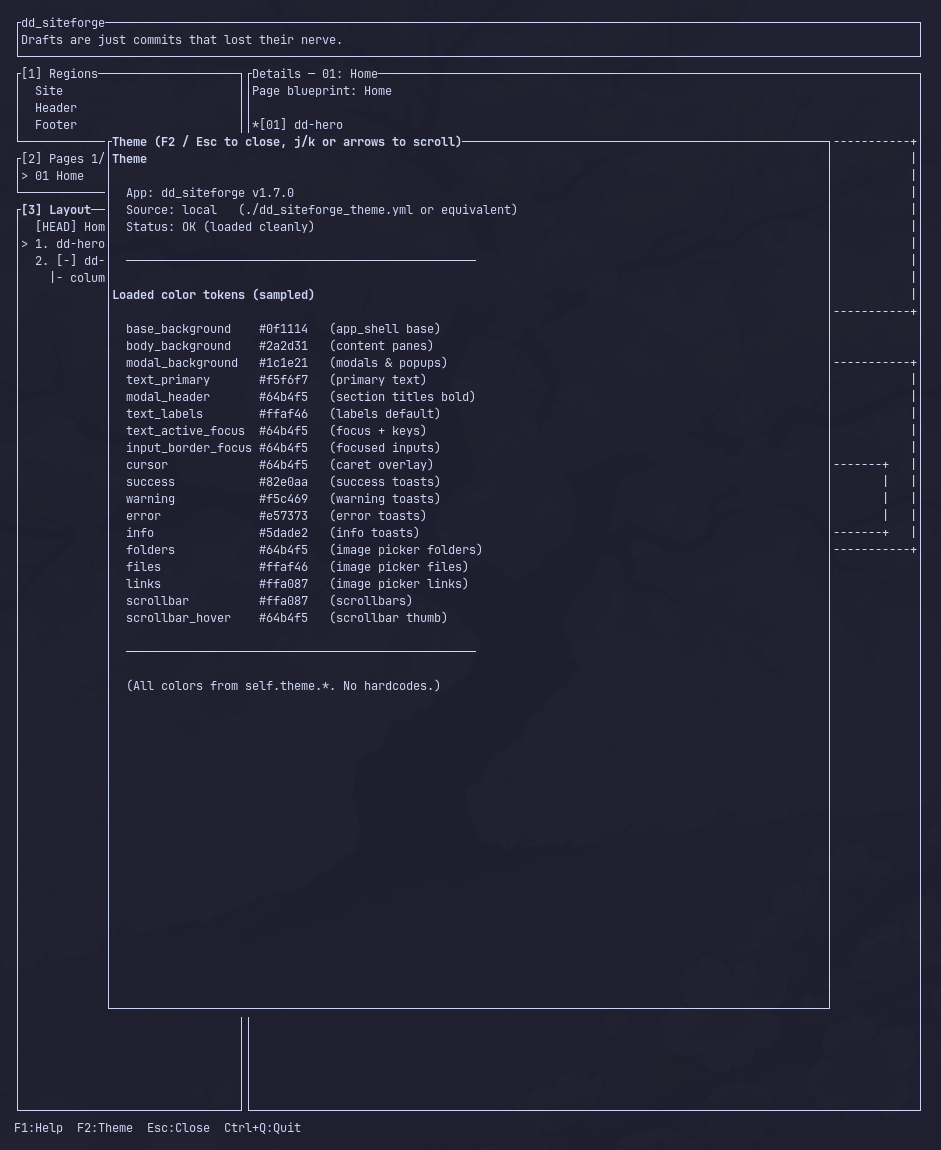
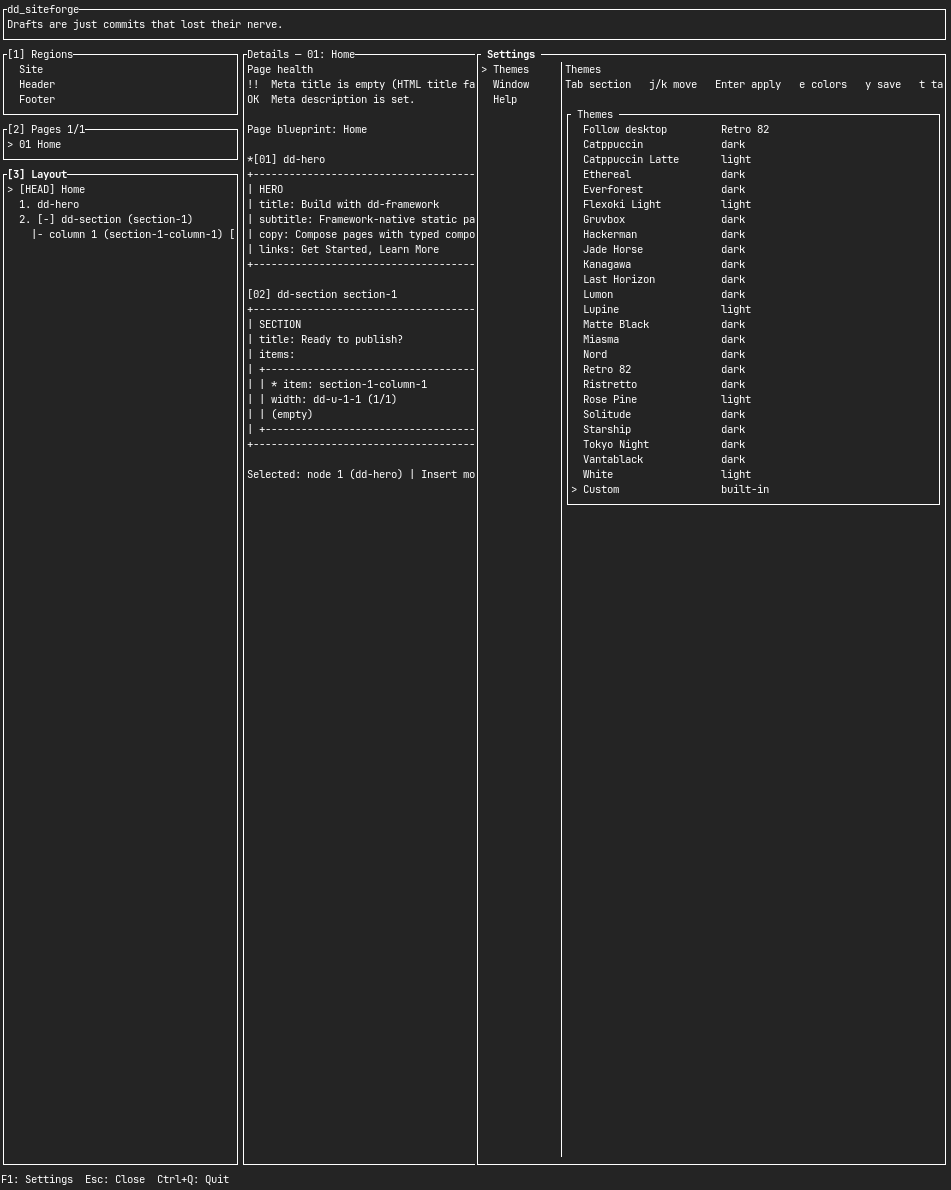
docs: update the tutorial for the Settings sheet
F1, F2, Ctrl+/, and Ctrl+, open one sheet. The page, capture script, and eight screenshots match that shell, including the theme path and font copy. capture.sh keeps its own XDG_CONFIG_HOME.

diff --git a/docs/index.html b/docs/index.html
@@ -141,7 +141,7 @@
 <body>
   <header class="hero">
     <div class="wrap">
-      <div class="kicker">dd_siteforge 1.11</div>
+      <div class="kicker">dd_siteforge 1.33.1</div>
       <h1>Setup, install, and the TUI</h1>
       <p>A terminal CMS for framework-native static pages. One Rust binary: edit a typed site tree, export HTML, host anywhere static.</p>
       <nav class="toc" aria-label="Sections">
@@ -185,20 +185,20 @@ dd_siteforge init-site site.json --name my-site</code></pre>
     <p>Without <code>--name</code> it prompts (or uses the folder name when stdin is not a TTY). Put author images in <code>source/images/</code> (URLs in the TUI look like <code>assets/images/hero.jpg</code>).</p>
 
     <h3>CSS / JS</h3>
-    <p>When the site has <code>.lando.yml</code>, the TUI <kbd>Shift+B</kbd> runs <code>lando grunt build</code> (Lando owns Node). Otherwise it runs <code>npx grunt build</code>. Host Node still works from a shell.</p>
+    <p>When the site has <code>.lando.yml</code>, the TUI <kbd>Ctrl+B</kbd> runs <code>lando grunt build</code> (Lando owns Node). Otherwise it runs <code>npx grunt build</code>. Host Node still works from a shell.</p>
 <pre><code>lando start
 lando npm install
-lando grunt build        # or in the TUI: Shift+B</code></pre>
-    <p>Writes <code>web/assets/{css,js,webfonts}</code>. <code>npx grunt dev</code> rebuilds on change. DDEV remains an optional wrapper: <code>ddev start</code> then <code>ddev npm run build</code>.</p>
+lando grunt build        # or in the TUI: Ctrl+B</code></pre>
+    <p>Writes <code>web/assets/{css,js,fonts}</code>. <code>npx grunt dev</code> rebuilds on change. DDEV remains an optional wrapper: <code>ddev start</code> then <code>ddev npm run build</code>.</p>
 
     <h2 id="tui">The editor</h2>
     <pre><code>dd_siteforge</code></pre>
     <p>In a folder with <code>site.json</code> that opens the TUI. <code>dd_siteforge site.json</code> and <code>dd_siteforge tui site.json</code> still work. With no JSON, a picker lists recents or creates a starter. Last page and tree row restore from <code>~/.config/ldnddev/dd_siteforge/session.json</code>.</p>
-    <p>Autosave rewrites the JSON 2s after a change. Manual <kbd>s</kbd> also writes a <code>site.json.backup</code> checkpoint. <kbd>?</kbd> finds copy in the site, <kbd>:</kbd> opens the command palette, <kbd>F4</kbd> is page health. <kbd>Ctrl+Q</kbd> quits (confirms if dirty).</p>
+    <p>Autosave rewrites the JSON 2s after a change. <kbd>Ctrl+S</kbd> also writes a <code>site.json.backup</code> checkpoint. <kbd>Ctrl+F</kbd> finds copy in the site, <kbd>Ctrl+K</kbd> opens the command palette, <kbd>F4</kbd> is page health. <kbd>Ctrl+Q</kbd> quits (confirms if dirty).</p>
 
     <figure>
-      <img src="images/01-shell.png" width="941" height="1150" alt="dd_siteforge TUI: header, Regions, Pages, Layout tree, Details blueprint, footer with F1 Help and F2 Theme">
-      <figcaption>Main shell after <code>init-site</code>. Header is the product name (version lives in F2). Footer always starts <kbd>F1:Help</kbd> then <kbd>F2:Theme</kbd>. Layout is focused; Details shows the page blueprint.</figcaption>
+      <img src="images/01-shell.png" width="951" height="1190" alt="dd_siteforge TUI: header, Regions, Pages, Layout tree, Details blueprint, footer starting with F1 Settings and ending with Ctrl+Q Quit">
+      <figcaption>Main shell after <code>init-site</code>. The header is the product name. The footer starts with <kbd>F1: Settings</kbd> at 80 columns and wider, and <kbd>F1:Settings</kbd> below that. It ends with <kbd>Ctrl+Q: Quit</kbd>, or <kbd>^Q:Quit</kbd> on a narrow line. Layout is focused; Details shows the page blueprint.</figcaption>
     </figure>
 
     <h3>Panes</h3>
@@ -208,7 +208,7 @@ lando grunt build        # or in the TUI: Shift+B</code></pre>
       </thead>
       <tbody>
         <tr><td><kbd>1</kbd></td><td>Regions</td><td>Site settings, Header, Footer</td></tr>
-        <tr><td><kbd>2</kbd></td><td>Pages</td><td>Sitemap order. <kbd>Shift+A</kbd> add, <kbd>r</kbd> rename</td></tr>
+        <tr><td><kbd>2</kbd></td><td>Pages</td><td>Sitemap order. <kbd>Ctrl+N</kbd> add, <kbd>r</kbd> rename</td></tr>
         <tr><td><kbd>3</kbd></td><td>Layout</td><td>Tree for the current region. <kbd>Enter</kbd> edit, <kbd>/</kbd> insert</td></tr>
         <tr><td><kbd>4</kbd></td><td>Details</td><td>ASCII blueprint. <kbd>j</kbd>/<kbd>k</kbd> scroll; click selects</td></tr>
       </tbody>
@@ -216,42 +216,44 @@ lando grunt build        # or in the TUI: Shift+B</code></pre>
     <p><kbd>Tab</kbd> / <kbd>Shift+Tab</kbd> still move between <em>pages</em>, not panes.</p>
 
     <figure>
-      <img src="images/07-regions.png" width="941" height="1150" alt="Regions pane with Site selected; Details shows name, lang, and CSS colors">
-      <figcaption>Press <kbd>1</kbd> then <kbd>j</kbd> so <strong>Site</strong> is selected. Layout collapses to one “Site settings” row. Details is a read-only summary of name, lang, base URL, export dir, and CSS colors.</figcaption>
+      <img src="images/07-regions.png" width="951" height="1190" alt="Regions pane with Site selected; Details shows name, lang, and CSS colors">
+      <figcaption>Press <kbd>1</kbd> then <kbd>j</kbd> so <strong>Site</strong> is selected. Layout collapses to one “Site settings” row. Details is a read-only summary: name, language, base URL, export dir, pretty URLs, the default social image, and the theme colors.</figcaption>
     </figure>
 
     <figure>
-      <img src="images/08-site-settings.png" width="941" height="1150" alt="Site settings form with name, lang, base URL, export dir, and four CSS color fields">
-      <figcaption><kbd>Enter</kbd> on Site opens the settings form. <kbd>Ctrl+S</kbd> writes existing <code>Site</code> fields (no schema change). Esc cancels.</figcaption>
+      <img src="images/08-site-settings.png" width="951" height="1190" alt="Site settings form with name, language, base URL, export directory, pretty URLs, theme colors, GA4 measurement id, and default social image">
+      <figcaption><kbd>Enter</kbd> on Site opens the form: name, language, base URL, export directory, pretty URLs, theme colors, an optional GA4 measurement id, and the default social image. <kbd>Ctrl+S</kbd> saves. <kbd>Esc</kbd> cancels.</figcaption>
     </figure>
 
     <figure>
-      <img src="images/06-details.png" width="941" height="1150" alt="Details pane focused; footer shows j/k Scroll">
+      <img src="images/06-details.png" width="951" height="1190" alt="Details pane focused; footer shows j/k Scroll">
       <figcaption><kbd>4</kbd> focuses Details (active border). <kbd>j</kbd>/<kbd>k</kbd> and PageUp/PageDown scroll the blueprint. Click a box to select the matching Layout row; double-click edits.</figcaption>
     </figure>
 
     <h3>Edit a component</h3>
     <p>In Layout, <kbd>j</kbd>/<kbd>k</kbd> to a row and press <kbd>Enter</kbd> (or double-click). Tab between fields. Left/Right cycles enums. <kbd>Ctrl+S</kbd> saves; <kbd>Esc</kbd> cancels. In a URL field, <kbd>Ctrl+P</kbd> opens an image picker (<code>source/images/</code>) or a page picker.</p>
     <figure>
-      <img src="images/04-edit-form.png" width="941" height="1150" alt="Edit modal for dd-hero with title, subtitle, copy, class, animation, and image fields">
+      <img src="images/04-edit-form.png" width="951" height="1190" alt="Edit modal for dd-hero with title, subtitle, copy, class, animation, and image fields">
       <figcaption>FormEdit on the starter <code>dd-hero</code>. The modal footer says <kbd>Ctrl+S: save</kbd>. Enter is a newline in textareas, not save.</figcaption>
     </figure>
 
     <h3>Insert a component</h3>
     <p><kbd>/</kbd> opens a fuzzy picker. Allowed kinds follow the focused region: pages can insert hero/section/components; header can insert header-search/menu; footer cannot insert a hero.</p>
     <figure>
-      <img src="images/05-insert.png" width="941" height="1150" alt="Insert component picker listing dd-hero, dd-section, dd-cta, and other page components">
+      <img src="images/05-insert.png" width="951" height="1190" alt="Insert component picker listing dd-hero, dd-section, dd-cta, and other page components">
       <figcaption>Type to filter, <kbd>Enter</kbd> to insert after the current Layout row, <kbd>Esc</kbd> to cancel.</figcaption>
     </figure>
 
-    <h3>Help and theme</h3>
+    <h3>Settings</h3>
+    <p><kbd>F1</kbd>, <kbd>F2</kbd>, <kbd>Ctrl+/</kbd>, and <kbd>Ctrl+,</kbd> toggle one Settings sheet on the right half of the body. It opens on Themes. <kbd>Tab</kbd> and <kbd>Shift+Tab</kbd>, or <kbd>[</kbd> and <kbd>]</kbd>, move Themes, then Window, then Help. Click a name in the sheet list to jump. The sheet sits above an open form and does not drop a paused image picker.</p>
     <figure>
-      <img src="images/02-help.png" width="941" height="1150" alt="F1 help overlay listing global keys, autosave, layout keys, and Pages panel keys">
-      <figcaption><kbd>F1</kbd> — full key and mouse list. Scroll with <kbd>j</kbd>/<kbd>k</kbd> or the wheel. Esc or F1 closes. Help sits above an open form; it will not drop a paused image picker.</figcaption>
+      <img src="images/03-theme.png" width="951" height="1190" alt="Settings sheet on the Themes page, with a theme list on the right half of the TUI">
+      <figcaption>Themes is first. <kbd>j</kbd>/<kbd>k</kbd> move, <kbd>Enter</kbd> applies the highlighted theme, and <kbd>e</kbd> opens colors. <kbd>Esc</kbd> on the list reverts and closes. In the color editor, <kbd>Esc</kbd> returns to the list when a list is open.</figcaption>
     </figure>
+    <p>Window is Density (<code>comfortable</code> or <code>compact</code>) and Vim keys. <kbd>Enter</kbd> toggles the highlighted row. Those prefs are stored in <code>~/.config/ldnddev/dd_siteforge/gui.json</code> (under <code>$XDG_CONFIG_HOME</code> when that variable is set).</p>
     <figure>
-      <img src="images/03-theme.png" width="941" height="1150" alt="F2 theme overlay showing source local, version, and sampled color tokens with hex values">
-      <figcaption><kbd>F2</kbd> — theme source (<code>local</code> / <code>global</code> / <code>default</code>), load status, and canonical tokens. Version is here, not in the header title.</figcaption>
+      <img src="images/02-help.png" width="951" height="1190" alt="Settings sheet on the Help page, listing keyboard shortcuts, autosave, and mouse controls">
+      <figcaption>Help is last. Scroll with <kbd>j</kbd>/<kbd>k</kbd> or the wheel. <kbd>Esc</kbd> or <kbd>F1</kbd> closes the sheet.</figcaption>
     </figure>
 
     <h2 id="export">Validate, export, preview</h2>
@@ -260,8 +262,8 @@ npx grunt build
 dd_siteforge export-html site.json ./web/
 dd_siteforge serve site.json          # export + http://127.0.0.1:8765/
 </code></pre>
-    <p>Inside the TUI: <kbd>F3</kbd> validate, <kbd>Shift+E</kbd> export (prompts for a directory the first time, then remembers <code>export_dir</code>), <kbd>Shift+P</kbd> export + local HTTP + open the current page in a browser.</p>
-    <p>Export copies Grunt <code>web/assets</code> (unless the dest already is that tree), fills missing webfonts/favicon from <code>source/</code>, copies <code>source/images/</code> → <code>web/assets/images/</code>, and writes <code>sitemap.xml</code>, <code>robots.txt</code>, and <code>404.html</code> when you have no author 404 page.</p>
+    <p>Inside the TUI: <kbd>F3</kbd> validate, <kbd>Ctrl+E</kbd> export (prompts for a directory the first time, then remembers <code>export_dir</code>), <kbd>Ctrl+P</kbd> export + local HTTP + open the current page in a browser.</p>
+    <p>Export copies Grunt <code>web/assets</code> (<code>css</code>, <code>js</code>, <code>fonts</code>, <code>favicon</code>, <code>vendors</code>) unless the destination is already that tree. It fills missing fonts from <code>source/fonts</code> and favicons from <code>source/favicon</code>, copies <code>source/images/</code> to <code>web/assets/images/</code>, and writes <code>sitemap.xml</code>, <code>search-index.json</code>, <code>robots.txt</code>, and <code>404.html</code> when you have no author 404 page.</p>
     <div class="callout warn">
       Validation and export refuse to run when slugs collide, required fields are empty, or a local <code>assets/images/…</code> file is missing next to the JSON.
     </div>
@@ -270,7 +272,7 @@ dd_siteforge serve site.json          # export + http://127.0.0.1:8765/
     <p>First file found wins:</p>
     <ol>
       <li><code>./dd_siteforge_theme.yml</code> (project)</li>
-      <li><code>~/.config/ldnddev/dd_siteforge_theme.yml</code> (user)</li>
+      <li><code>$XDG_CONFIG_HOME/ldnddev/dd_siteforge_theme.yml</code> when that variable is set, otherwise <code>~/.config/ldnddev/dd_siteforge_theme.yml</code></li>
       <li>Built-in defaults</li>
     </ol>
     <p>Must declare <code>version: 1</code>. Token names are in <a href="https://github.com/ldnddev/dd_siteforge/blob/master/LDNDDEV_TUI_VISUAL_STANDARD.md">LDNDDEV_TUI_VISUAL_STANDARD.md</a>. Optional <code>header_quotes</code> replaces the rotating header line (picked once per launch).</p>
@@ -279,18 +281,19 @@ dd_siteforge serve site.json          # export + http://127.0.0.1:8765/
     <table>
       <thead><tr><th>Keys</th><th>Action</th></tr></thead>
       <tbody>
-        <tr><td><kbd>F1</kbd> / <kbd>F2</kbd> / <kbd>F3</kbd></td><td>Help / Theme / Validate</td></tr>
-        <tr><td><kbd>Shift+E</kbd> / <kbd>Shift+P</kbd> / <kbd>s</kbd></td><td>Export / Preview / Save (+ backup)</td></tr>
+        <tr><td><kbd>F1</kbd> <kbd>F2</kbd> <kbd>Ctrl+/</kbd> <kbd>Ctrl+,</kbd></td><td>Toggle Settings (Themes, Window, Help)</td></tr>
+        <tr><td><kbd>F3</kbd></td><td>Validate</td></tr>
+        <tr><td><kbd>Ctrl+E</kbd> / <kbd>Ctrl+P</kbd> / <kbd>Ctrl+S</kbd></td><td>Export / Preview / Save (+ backup)</td></tr>
         <tr><td><kbd>/</kbd></td><td>Insert component</td></tr>
         <tr><td><kbd>1</kbd> <kbd>2</kbd> <kbd>3</kbd> <kbd>4</kbd></td><td>Focus Regions / Pages / Layout / Details</td></tr>
         <tr><td><kbd>Tab</kbd></td><td>Next page</td></tr>
         <tr><td><kbd>Ctrl+Q</kbd></td><td>Quit</td></tr>
-        <tr><td><kbd>Shift+A</kbd> <kbd>Shift+X</kbd> <kbd>r</kbd></td><td>Pages: add / delete / rename</td></tr>
+        <tr><td><kbd>Ctrl+N</kbd> <kbd>Shift+X</kbd> <kbd>r</kbd></td><td>Pages: add / delete / rename</td></tr>
         <tr><td><kbd>j</kbd> <kbd>k</kbd> <kbd>Enter</kbd> <kbd>d</kbd> <kbd>y</kbd> <kbd>p</kbd> <kbd>u</kbd></td><td>Layout: move / edit / delete / copy / paste / undo</td></tr>
         <tr><td><kbd>Ctrl+S</kbd> in a form</td><td>Save the form (Esc cancels)</td></tr>
       </tbody>
     </table>
-    <p class="muted">The footer is one adaptive line. Narrow terminals drop trailing hints; F1 is the full list.</p>
+    <p class="muted">The footer is one adaptive line. Below 80 columns it starts with <kbd>F1:Settings</kbd> and ends with <kbd>^Q:Quit</kbd>. At 80 and wider it starts with <kbd>F1: Settings</kbd> and ends with <kbd>Ctrl+Q: Quit</kbd>. Hints in the middle drop until the line fits. Help is the full list.</p>
 
     <h2>Other CLI</h2>
     <p><code>init-templates</code> writes bundled Handlebars into <code>source/templates/</code> in the current directory. Pass a site JSON path only when the site lives elsewhere.</p>

diff --git a/docs/SCREENSHOTS.md b/docs/SCREENSHOTS.md
@@ -4,10 +4,10 @@ The HTML tutorial at `docs/index.html` (GitHub Pages: https://ldnddev.github.io/
 
 | File | What it must show | How the capture script gets there |
 |---|---|---|
-| `01-shell.png` | Main TUI: header, Regions (Site/Header/Footer), Pages, Layout, Details, footer starting `F1:Help  F2:Theme` | Idle after `tui` |
-| `02-help.png` | F1 Help overlay | `F1` |
-| `03-theme.png` | F2 Theme overlay, canonical token names | `Esc`, `F2` |
-| `04-edit-form.png` | FormEdit on `dd-hero` (`Ctrl+S` in the modal footer) | `Esc`, `3`, `Enter` |
+| `01-shell.png` | Main TUI: header, Regions (Site/Header/Footer), Pages, Layout, Details, footer starting `F1: Settings` and ending `Ctrl+Q: Quit` | Idle after `tui` |
+| `02-help.png` | Settings sheet, Help page (last) | `F1`, `]`, `]` |
+| `03-theme.png` | Settings sheet, Themes page (first) | `[`, `[` |
+| `04-edit-form.png` | FormEdit on `dd-hero` (`Ctrl+S` in the modal footer) | `Esc`, `3`, `j`, `Enter` |
 | `05-insert.png` | `/` insert picker (page kinds, no header-only) | `Esc`, `/` |
 | `06-details.png` | Details focused (`4`); footer includes `j/k:Scroll` | `Esc`, `4` |
 | `07-regions.png` | Regions focused, **Site** selected; Details shows site settings summary | `1`, `j` |
@@ -26,7 +26,7 @@ Needs `foot`, `grim`, `wtype`, `hyprctl`, and `python` on `$PATH`. The script:
 
 1. Builds a throwaway site at `/tmp/dd_siteforge_tutorial/` (`init-site --name tutorial`) if missing.
 2. Writes a local `dd_siteforge_theme.yml` there with a **fixed** header quote so screenshots do not rotate.
-3. Opens a 132×42 `foot` window (`app-id` `dd-siteforge-tutorial`) running `target/release/dd_siteforge tui site.json`.
+3. Opens a 132×42 `foot` window (`app-id` `dd-siteforge-tutorial`) running `target/release/dd_siteforge tui site.json`. `XDG_CONFIG_HOME` is `<scratch>/config`, so the capture does not read or write your session.
 4. Focuses that window, sends the key sequence above, and `grim`s the window rect into `docs/images/`.
 
 Override the scratch site with `DD_SITEFORGE_TUTORIAL_SITE=/path ./docs/capture.sh`. Slow a sluggish compositor with `SLEEP_AFTER_KEY=0.8`.
